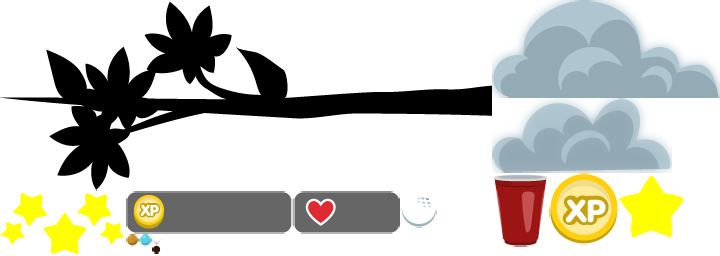
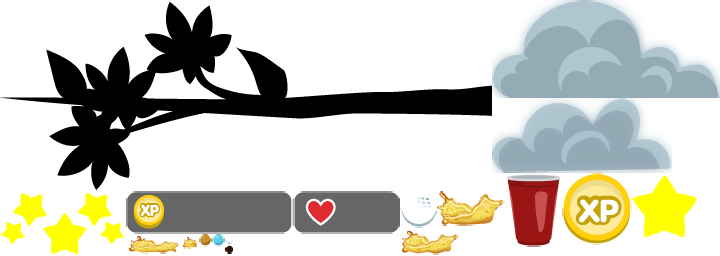
amazing, bPong update

Changed region(s): [[0.55, 0.6562, 0.9778, 1.0], [0.1528, 0.9062, 0.3361, 1.0]]

diff --git a/minigames/bPong/js/scenes/bPong.js b/minigames/bPong/js/scenes/bPong.js
@@ -93,6 +93,7 @@ var bPong = function(){
     var lastTree, tileLeft, tileRight
 
     var beerParticle, waterParticle, fireParticle
+    var beerSplash
 
     function loadSounds(){
         sound.decode(assets.sounds)
@@ -521,6 +522,13 @@ var bPong = function(){
                                 player.x = platform.glass.x
 
                                 createTextPart('+'+POINTS_FOR_BEER, platform.glass)
+                                beerSplash.visible = true
+                                beerSplash.x = platform.glass.x
+                                beerSplash.y = platform.glass.y - 20
+                                beerSplash.time = game.time.now + 50
+                                beerSplash.loadTexture("atlas.game","splash1")
+                                beerSplash.index = 1
+                                beerSplash.glass = platform.glass
 
                                 currentPlatform = platform
                                 player.inJump = false
@@ -559,6 +567,22 @@ var bPong = function(){
                 if(treesGroup.children[i].y < -100){
                     treesGroup.children[i].visible = false
                 }
+            }
+        }
+
+        if(beerSplash.visible){
+            if(game.time.now > beerSplash.time){
+                beerSplash.index ++
+                if(beerSplash.index <= 4){
+                    beerSplash.x = beerSplash.glass.x
+                    beerSplash.y = beerSplash.glass.y-20
+                    beerSplash.loadTexture("atlas.game","splash"+beerSplash.index)
+                    beerSplash.time = game.time.now + 50
+                }
+                else{
+                    beerSplash.visible = false
+                }
+                               
             }
         }
 
@@ -859,6 +883,10 @@ var bPong = function(){
 
         createPointsBar()
         createHearts()
+
+        beerSplash = sceneGroup.create(0,0,"atlas.game","splash1")
+        beerSplash.anchor.setTo(0.5,1)
+        beerSplash.visible = true
 
         initGame()
 

diff --git a/minigames/dotBlocks/js/scenes/dotBlocks.js b/minigames/dotBlocks/js/scenes/dotBlocks.js
@@ -757,7 +757,7 @@ var dotBlocks = function(){
                 else if(value >=31 && value <=40){
                     block.loadTexture("atlas.game","bloque4")
                 }
-                else if(value >=41 && value <=50){
+                else if(value >=41){
                     block.loadTexture("atlas.game","bloque5") 
                 }
 
@@ -788,7 +788,7 @@ var dotBlocks = function(){
         else if(value >=31 && value <=40){
             block.loadTexture("atlas.game","bloque4")
         }
-        else if(value >=41 && value <=50){
+        else if(value >=41){
             block.loadTexture("atlas.game","bloque5") 
         }
 
